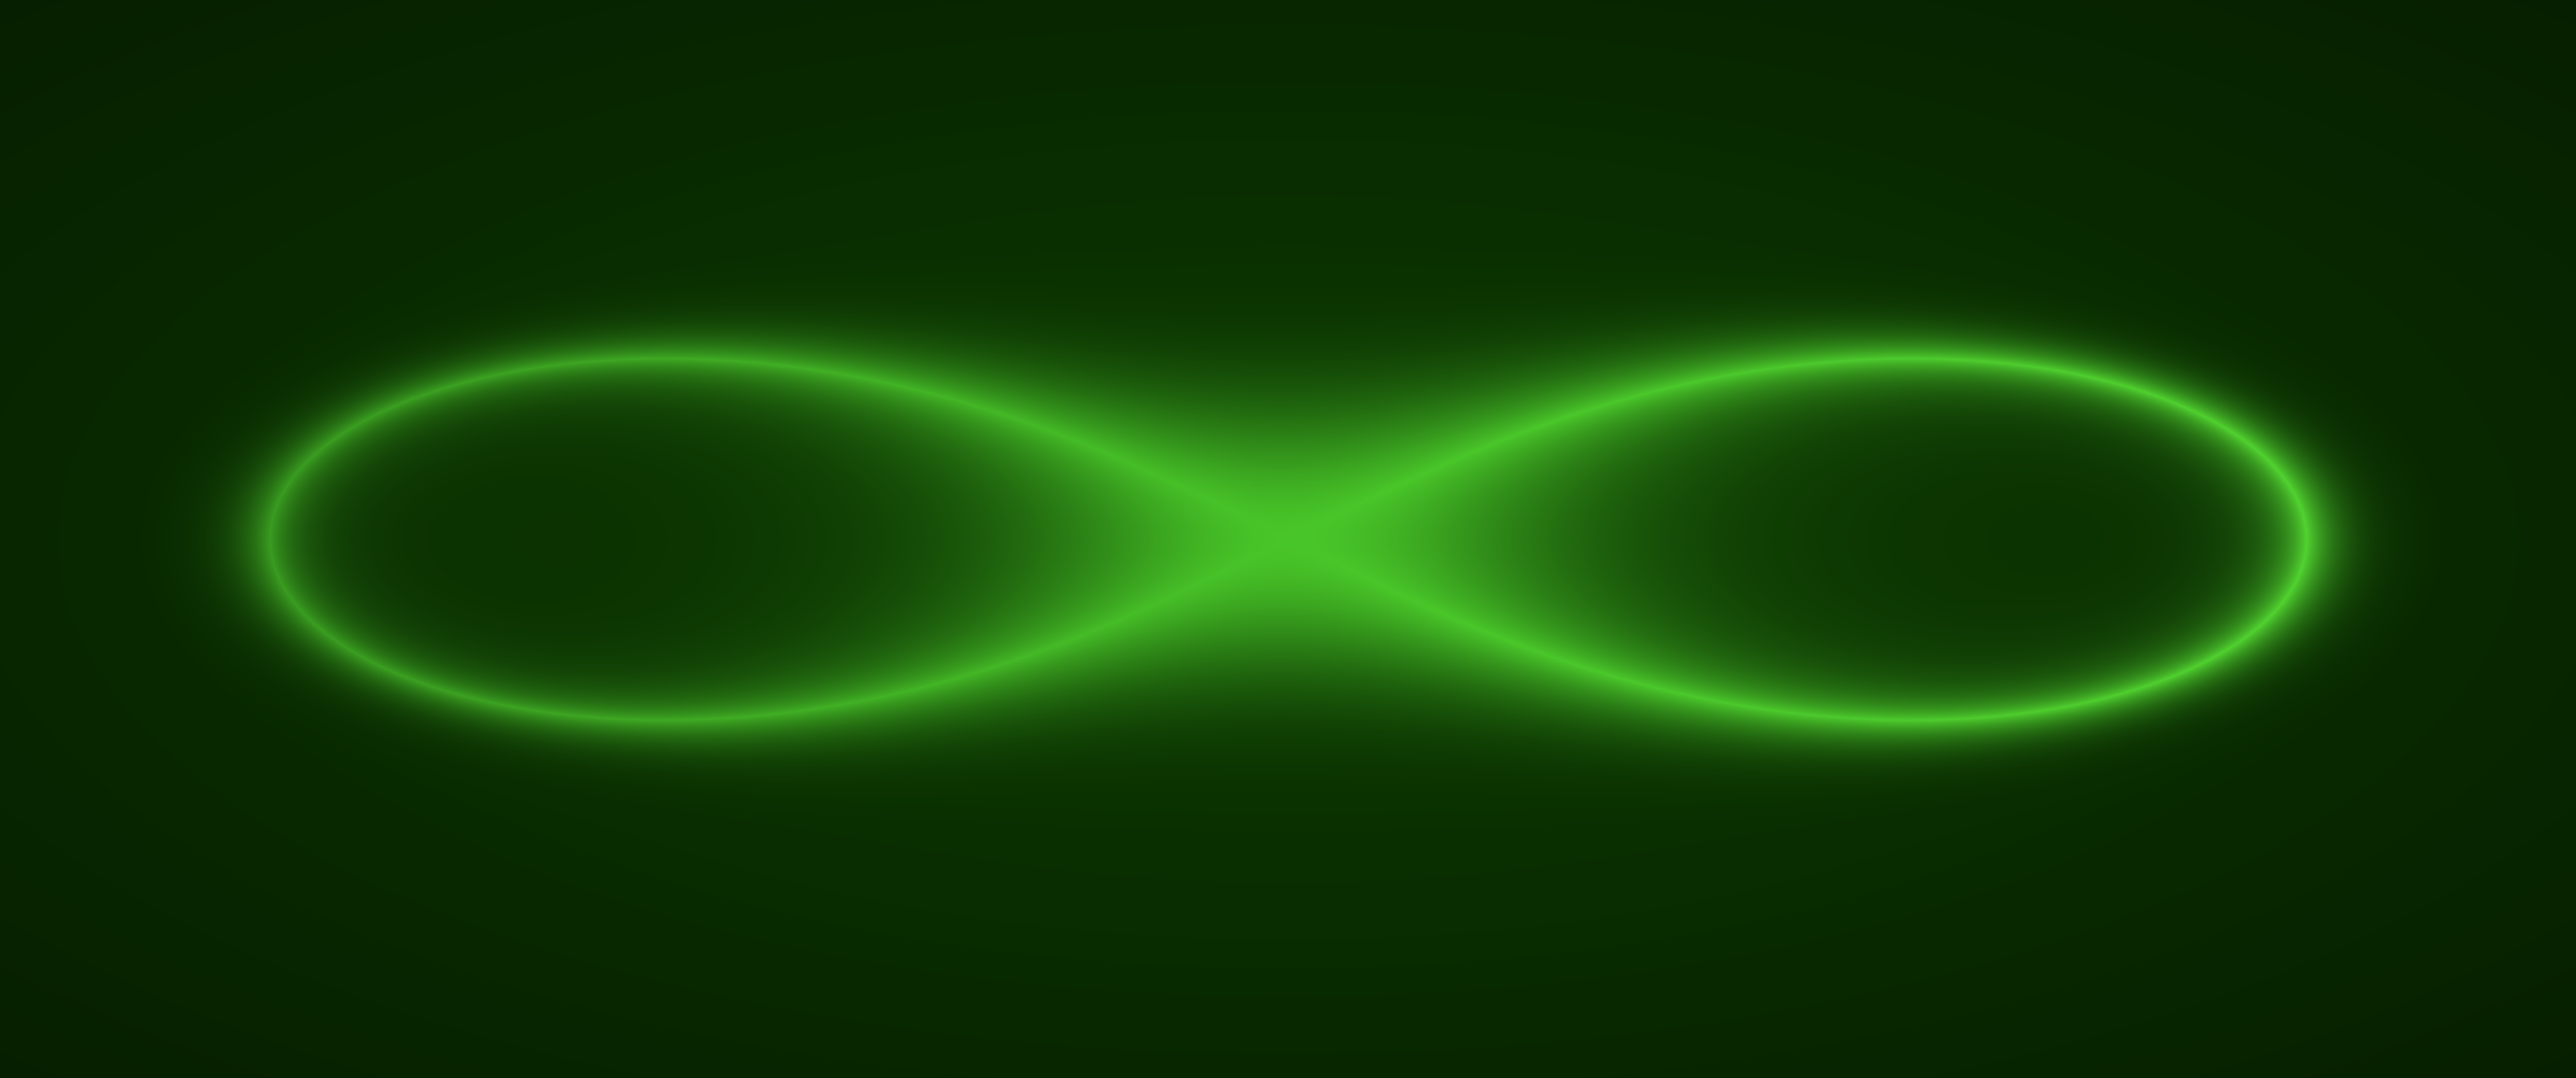
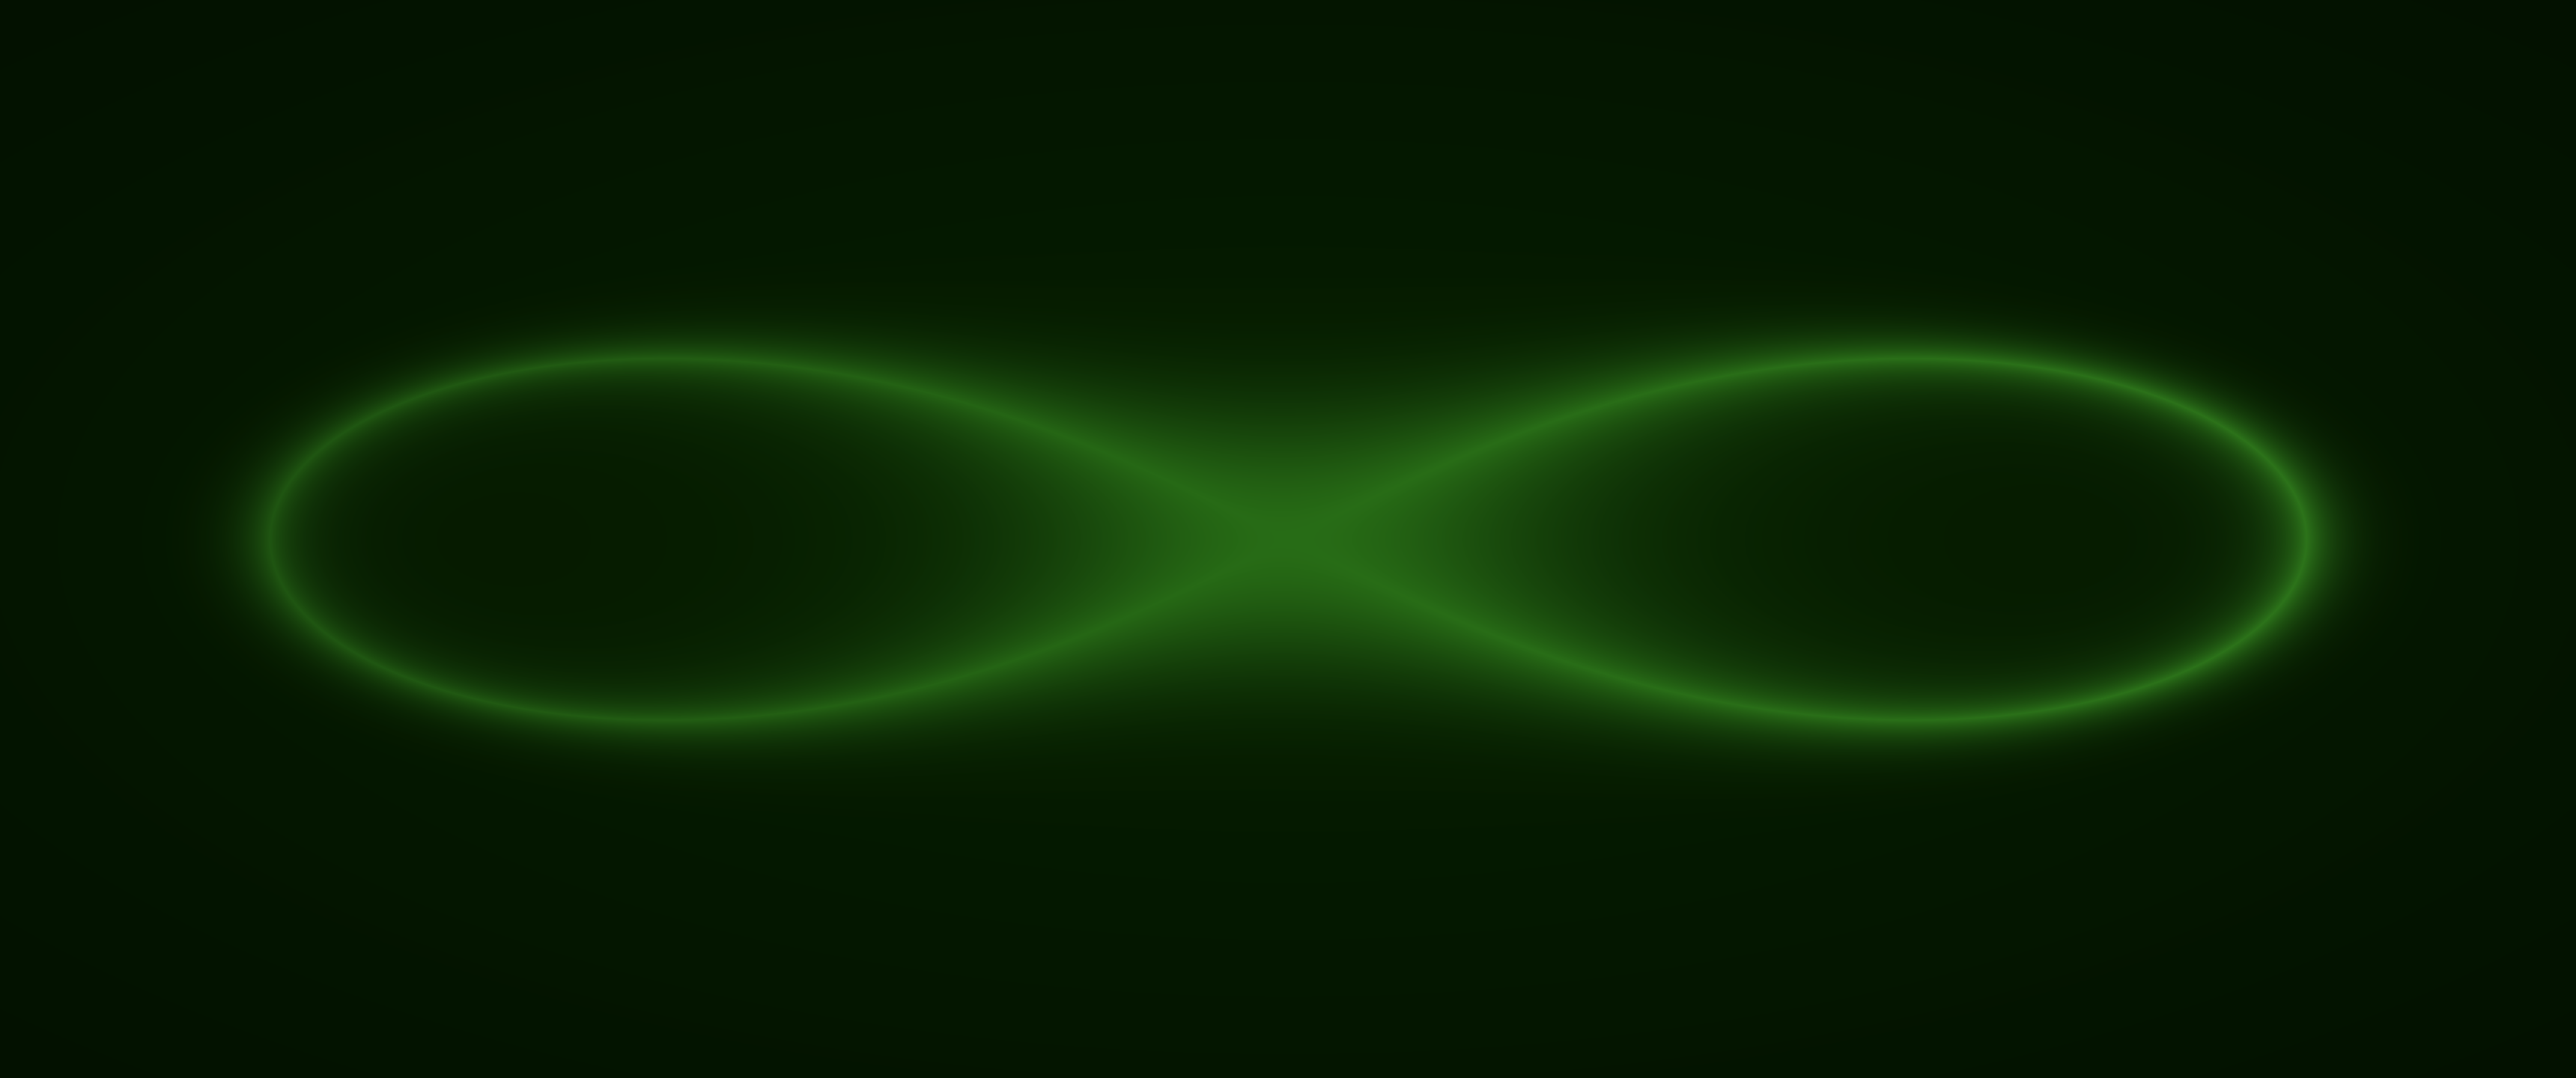
Theme: darker green palette and wallpaper
Backgrounds, accents and borders about 45% darker (base #062000,
deep #031000, accent #136000, bright #3a9922). Wallpaper brightness
scaled to 0.55. Text colors unchanged for readability.

Claude-Session: https://claude.ai/code/session_01JpVbgTtDxNEFVwb9weAJxa

diff --git a/packages/mobius-desktop/files/etc/skel/.config/gtk-3.0/gtk.css b/packages/mobius-desktop/files/etc/skel/.config/gtk-3.0/gtk.css
@@ -1,17 +1,17 @@
 /* Mobius green for GTK 3 apps (Thunar, pavucontrol, file pickers).
-   Palette: deep #061d00, base #0c3a00, accent #1f9900, bright #52cc33, text #e3f2dc, dim #7a9970 */
+   Palette: deep #031000, base #062000, accent #136000, bright #3a9922, text #e3f2dc, dim #7a9970 */
 
 window, .background, dialog {
-    background-color: #061d00;
+    background-color: #031000;
     color: #e3f2dc;
 }
 
 /* Bars */
 headerbar, .titlebar, menubar, toolbar, .toolbar, .primary-toolbar, statusbar {
     background-image: none;
-    background-color: #0c3a00;
+    background-color: #062000;
     color: #e3f2dc;
-    border-color: #0c3a00;
+    border-color: #062000;
     box-shadow: none;
 }
 statusbar { color: #7a9970; }
@@ -19,61 +19,61 @@ statusbar { color: #7a9970; }
 /* Side pane (Thunar shortcuts / tree) */
 .sidebar, placessidebar, placessidebar list, .shortcuts-pane, .shortcuts-pane treeview.view,
 .sidebar treeview.view, .sidebar row {
-    background-color: #0c3a00;
+    background-color: #062000;
     color: #e3f2dc;
 }
 
 /* File views and lists */
 .view, treeview.view, iconview, list, row, textview text, scrolledwindow viewport {
-    background-color: #061d00;
+    background-color: #031000;
     color: #e3f2dc;
 }
 treeview.view header button {
     background-image: none;
-    background-color: #0c3a00;
+    background-color: #062000;
     color: #7a9970;
-    border-color: #061d00;
+    border-color: #031000;
 }
 
 /* Selection */
 .view:selected, treeview.view:selected, iconview:selected, row:selected,
 .view:selected:focus, treeview.view:selected:focus, iconview:selected:focus, row:selected:focus,
 *:selected, selection {
-    background-color: #1f9900;
+    background-color: #136000;
     color: #ffffff;
 }
-.view:hover, iconview:hover, row:hover { background-color: #0c3a00; }
+.view:hover, iconview:hover, row:hover { background-color: #062000; }
 
 /* Inputs and buttons */
 entry {
     background-image: none;
-    background-color: #0c3a00;
+    background-color: #062000;
     color: #e3f2dc;
-    border-color: #1f9900;
-    caret-color: #52cc33;
+    border-color: #136000;
+    caret-color: #3a9922;
 }
-entry:focus { border-color: #52cc33; box-shadow: inset 0 0 0 1px #52cc33; }
+entry:focus { border-color: #3a9922; box-shadow: inset 0 0 0 1px #3a9922; }
 button {
     background-image: none;
-    background-color: #0c3a00;
+    background-color: #062000;
     color: #e3f2dc;
-    border-color: #1f9900;
+    border-color: #136000;
     text-shadow: none;
     box-shadow: none;
 }
-button:hover { background-color: #145c00; }
-button:active, button:checked { background-color: #1f9900; color: #ffffff; }
+button:hover { background-color: #0b3300; }
+button:active, button:checked { background-color: #136000; color: #ffffff; }
 
 /* Menus and popovers */
 menu, .menu, .context-menu, popover, popover.background, menuitem {
-    background-color: #0c3a00;
+    background-color: #062000;
     color: #e3f2dc;
 }
-menuitem:hover { background-color: #1f9900; color: #ffffff; }
+menuitem:hover { background-color: #136000; color: #ffffff; }
 
 /* Scrollbars, separators, links */
-scrollbar { background-color: #061d00; border-color: #061d00; }
-scrollbar slider { background-color: #1f9900; }
-scrollbar slider:hover { background-color: #52cc33; }
-separator, paned separator { background-color: #0c3a00; }
-link, *:link { color: #52cc33; }
+scrollbar { background-color: #031000; border-color: #031000; }
+scrollbar slider { background-color: #136000; }
+scrollbar slider:hover { background-color: #3a9922; }
+separator, paned separator { background-color: #062000; }
+link, *:link { color: #3a9922; }

diff --git a/packages/mobius-desktop/files/etc/skel/.config/waybar/style.css b/packages/mobius-desktop/files/etc/skel/.config/waybar/style.css
@@ -1,5 +1,5 @@
 * { font-family: "JetBrainsMono Nerd Font"; font-size: 13px; }
-window#waybar { background: rgba(12, 58, 0, 0.88); color: #e3f2dc; }
+window#waybar { background: rgba(6, 32, 0, 0.90); color: #e3f2dc; }
 #workspaces button { padding: 0 8px; color: #7a9970; }
-#workspaces button.active { color: #52cc33; border-bottom: 2px solid #1f9900; }
+#workspaces button.active { color: #3a9922; border-bottom: 2px solid #136000; }
 #clock, #cpu, #memory, #custom-gpu, #pulseaudio, #network, #tray { padding: 0 10px; }
